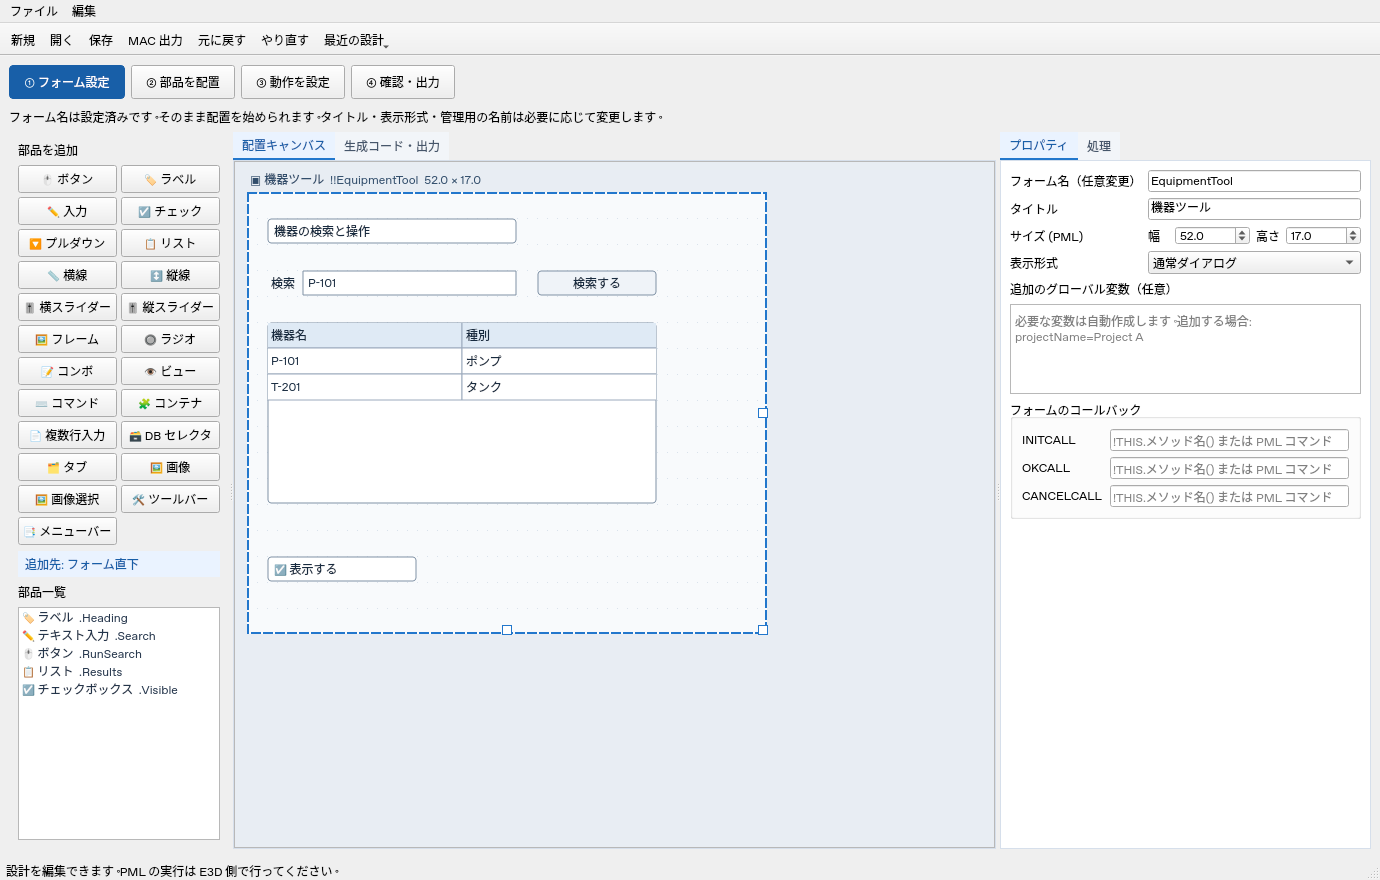
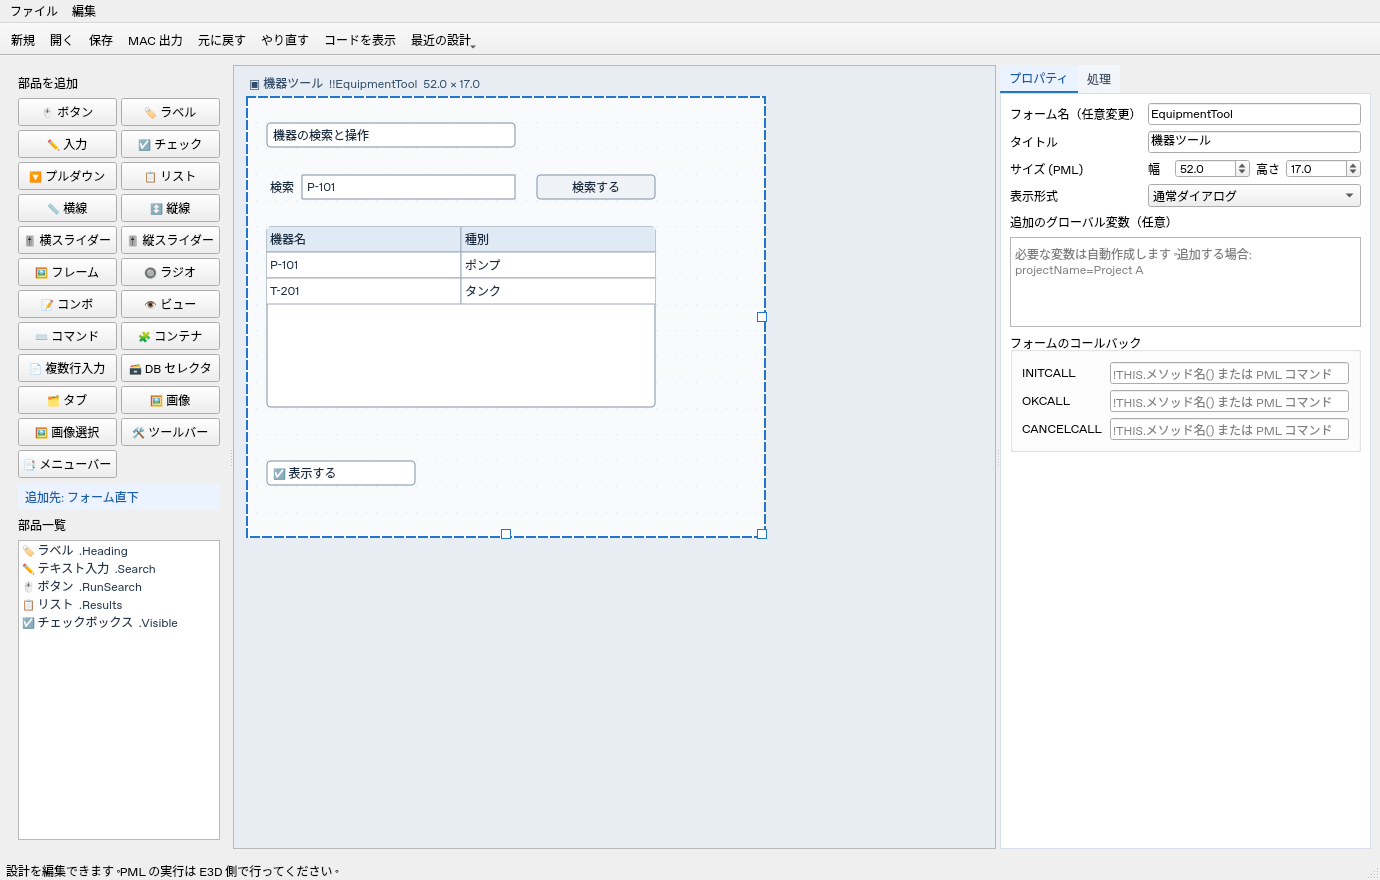
Keep canvas visible and show generated code in a separate window

diff --git a/e3d_designer/app.py b/e3d_designer/app.py
@@ -12,7 +12,7 @@ from PySide6.QtWidgets import (QApplication, QMainWindow, QWidget, QVBoxLayout,
     QPlainTextEdit, QLabel, QSplitter, QGraphicsScene, QGraphicsView,
     QGraphicsObject, QGraphicsItem, QListWidget, QFileDialog, QMessageBox,
     QCheckBox, QMenuBar, QMenu, QGroupBox, QTableWidget, QHeaderView, QAbstractItemView,
-    QGridLayout, QTabBar, QDialog, QDialogButtonBox, QTabWidget, QInputDialog, QToolButton, QButtonGroup, QStackedWidget)
+    QGridLayout, QTabBar, QDialog, QDialogButtonBox, QTabWidget, QInputDialog, QToolButton, QStackedWidget)
 from .form_item import FormItem
 from .highlighting import PmlHighlighter,COLORS
 from .colors import preview_color,foreground_color
@@ -459,6 +459,8 @@ class Window(QMainWindow):
             a.triggered.connect(fn)
             (edit_menu if label in ('元に戻す','やり直す','複製','削除') else file_menu).addAction(a)
             if label not in ('名前を付けて保存','複製','削除'):toolbar.addAction(a)
+        self.code_action=QAction('コードを表示',self);self.code_action.setShortcut(QKeySequence('Ctrl+Shift+C'))
+        self.code_action.triggered.connect(self.show_code);toolbar.addAction(self.code_action);file_menu.addAction(self.code_action)
         names_action = QAction('変数・名前管理',self)
         names_action.setShortcut(QKeySequence('Ctrl+M'));names_action.triggered.connect(self.manage_names)
         edit_menu.addAction(names_action)
@@ -470,14 +472,6 @@ class Window(QMainWindow):
         recovery_action=file_menu.addAction('作業を復元');recovery_action.triggered.connect(self.recover_work)
         self.refresh_recent_menu()
         root = QWidget(); outer = QVBoxLayout(root)
-        workflow_row=QHBoxLayout();self.workflow_buttons={};self.workflow_group=QButtonGroup(self)
-        for step,label in (('form','① フォーム設定'),('layout','② 部品を配置'),('action','③ 動作を設定'),('output','④ 確認・出力')):
-            button=QPushButton(label);button.setCheckable(True)
-            button.setStyleSheet('QPushButton { padding: 7px 14px; } QPushButton:checked { background: #185fa8; color: white; border: 1px solid #185fa8; border-radius: 4px; }')
-            button.clicked.connect(lambda checked=False,s=step:self.set_workflow(s))
-            self.workflow_group.addButton(button);self.workflow_buttons[step]=button;workflow_row.addWidget(button)
-        workflow_row.addStretch();outer.addLayout(workflow_row)
-        self.workflow_hint=QLabel();outer.addWidget(self.workflow_hint)
         columns = QSplitter();self.columns=columns
         left = QWidget();self.library_panel=left;ll = QVBoxLayout(left)
         ll.addWidget(QLabel('部品を追加'))
@@ -518,7 +512,6 @@ class Window(QMainWindow):
         self.objects.itemDoubleClicked.connect(lambda item:self.request_object_label(self.form.gadgets[item.data(Qt.UserRole)].name))
         self.objects.setToolTip('ドラッグで部品の順序を変更します（親コンテナは変わりません）。')
         left.setMinimumWidth(220); columns.addWidget(left)
-        middle = QTabWidget();self.workspace_tabs=middle;middle.setStyleSheet(INSPECTOR_STYLE)
         self.scene = Scene(self); self.scene.selectionChanged.connect(self.selection_changed)
         self.view = QGraphicsView(self.scene)
         self.view.setContextMenuPolicy(Qt.CustomContextMenu)
@@ -549,7 +542,7 @@ class Window(QMainWindow):
         self.delete_page_button=QPushButton('− タブ');self.delete_page_button.clicked.connect(self.delete_page)
         tab_layout.addWidget(self.delete_page_button)
         preview_layout.addWidget(self.tab_editor);preview_layout.addWidget(self.view)
-        middle.addTab(preview,'配置キャンバス')
+        columns.addWidget(preview)
         self.code = QPlainTextEdit(); self.code.setReadOnly(True)
         self.code.setStyleSheet('font-family: monospace; font-size: 12px;')
         code_panel=QWidget();code_layout=QVBoxLayout(code_panel);code_layout.setContentsMargins(0,0,0,0);code_layout.setSpacing(3)
@@ -569,7 +562,10 @@ class Window(QMainWindow):
         legend=QLabel('  '.join(f'<span style="color:{COLORS[kind]}">{label}</span>' for kind,label in (('command','コマンド'),('object','オブジェクト'),('variable','変数'),('string','文字列'),('number','数値・論理値'),('method','メソッド'),('comment','コメント'))))
         legend.setWordWrap(True);code_layout.addWidget(legend);code_layout.addWidget(self.code)
         code_layout.addWidget(QLabel('出力形式: .mac / SJIS（CP932）/ CRLF  •  E3Dで読み込みと動作を確認してください。'))
-        middle.addTab(code_panel,'生成コード・出力');columns.addWidget(middle)
+        self.output_dialog=QDialog(self,Qt.Window);self.output_dialog.setWindowTitle('生成コード・MAC出力')
+        self.output_dialog.resize(1000,760)
+        output_layout=QVBoxLayout(self.output_dialog);output_layout.addWidget(code_panel)
+        close_code=QPushButton('閉じる');close_code.clicked.connect(self.output_dialog.close);output_layout.addWidget(close_code)
         right = QTabWidget();self.inspector_tabs=right
         right.setStyleSheet(INSPECTOR_STYLE)
         form_page=QWidget();rl=QVBoxLayout(form_page)
@@ -773,34 +769,24 @@ class Window(QMainWindow):
             highlighter=PmlHighlighter(editor.document());editor.pml_highlighter=highlighter
             self.pml_highlighters.append(highlighter)
         self.refresh()
-        self.workspace_tabs.currentChanged.connect(self.workspace_changed)
         self.set_workflow('form')
         if self.settings.error:self.statusBar().showMessage('設定JSONを読み込めません: '+self.settings.error)
         self.backup_timer.start()
 
+    def show_code(self):
+        self.sync_output_summary()
+        self.output_dialog.show();self.output_dialog.raise_();self.output_dialog.activateWindow()
+
     def set_workflow(self,step):
-        previous=self.current_workflow
-        if step=='output' and previous!='output':self.design_sizes=self.columns.sizes()
-        self.current_workflow=step;self.workflow_buttons[step].setChecked(True)
-        self.workspace_tabs.setCurrentIndex(1 if step=='output' else 0)
-        self.library_panel.setVisible(step!='output');self.inspector_tabs.setVisible(step!='output')
-        if previous=='output' and step!='output':self.columns.setSizes(getattr(self,'design_sizes',[220,780,380]))
+        # Internal focus routing; the canvas and its panels always remain visible.
+        if step=='output':self.show_code();return
+        self.current_workflow=step
         if step=='form':
             self.choose_row(-1);self.inspector_tabs.setCurrentIndex(0)
         elif step=='layout':self.inspector_tabs.setCurrentIndex(0)
         elif step=='action':
             self.inspector_tabs.setCurrentIndex(0)
             if self.props.isTabEnabled(3):self.props.setCurrentIndex(3)
-        hints={'form':'フォーム名は設定済みです。そのまま配置を始められます。タイトル・表示形式・管理用の名前は必要に応じて変更します。',
-               'layout':'追加先を確認 → 部品を追加 → ドラッグとハンドルで配置。ダブルクリックで設定を編集できます。',
-               'action':'処理名は自動設定します。部品の動作を設定し、「処理コードを編集」から処理内容を追加します。',
-               'output':'設計JSONを保存し、生成コードを確認してMACを出力します。プレビューは概略表示です。'}
-        self.workflow_hint.setText(hints[step])
-        if step=='action':self.sync_context_hints()
-
-    def workspace_changed(self,index):
-        if index==1 and self.current_workflow!='output':self.set_workflow('output')
-        elif index==0 and self.current_workflow=='output':self.set_workflow('layout')
 
     def show_method_editor(self):
         if self.selected is None:return
@@ -1441,19 +1427,13 @@ class Window(QMainWindow):
 
     def sync_context_hints(self):
         g=self.form.gadgets[self.selected] if self.selected is not None and self.selected<len(self.form.gadgets) else None
-        if self.current_workflow=='action':
-            if g and g.action_mode=='MACRO':
-                self.workflow_hint.setText('外部マクロを選択します。分岐変数・値は自動設定し、必要なら「分岐マクロのひな形を保存」で処理を作成できます。')
-            elif not g:
-                self.workflow_hint.setText('部品を選ぶとその動作を設定できます。フォーム全体の追加処理は右側の「処理」で編集します。')
-            else:self.workflow_hint.setText('処理名は自動設定します。部品の動作を設定し、「処理コードを編集」から処理内容を追加します。')
         if g:
             parent=self.form.parent_gadget(g)
             location=f'{parent.label} (.{parent.name})' if parent else 'フォーム直下'
             self.selection_hint.setText(f'{gadget_title(g)}  .{g.name}\n所属: {location}')
             self.method_target.setText(f'対象: {g.label} (.{g.name})\n処理名: {g.callback or "メソッドなし"}')
         else:
-            self.selection_hint.setText('部品を選択してください。\nダブルクリックで表示名を変更できます。')
+            self.selection_hint.setText('部品を選択してください。\nダブルクリックで設定を編集できます。')
             self.method_target.setText('キャンバスまたは部品一覧で、処理を編集する部品を選択してください。')
         target=g if g and g.kind=='frame' else self.form.parent_gadget(g) if g else self.form.named(self.tabset_picker.currentData()) if self.tabset_picker.currentData() else None
         if target and target.frame_style=='TABSET':
@@ -2074,7 +2054,6 @@ class Window(QMainWindow):
         if folder:self.output_folder.setText(folder);self.save_output_folder()
 
     def export(self):
-        self.set_workflow('output')
         try:
             if self.variable_error: raise ValueError('変数欄を修正してください。')
             data = self.form.pml().replace('\n', '\r\n').encode('cp932')
@@ -2096,7 +2075,7 @@ class Window(QMainWindow):
         if self.confirm_discard():
             self.clear_backup();self.backup_timer.stop()
             self._closing = True
-            self.menu_dialog.close()
+            self.menu_dialog.close();self.output_dialog.close()
             self.scene.blockSignals(True)
             event.accept()
         else: event.ignore()

diff --git a/tests/test_workflow_ui.py b/tests/test_workflow_ui.py
@@ -22,27 +22,33 @@ class WorkflowUiTests(unittest.TestCase):
     def tearDown(self):
         self.app.clipboard().clear();self.w.dirty=False;self.w.close();self.app.processEvents();self.temp.cleanup()
 
-    def test_view_switches_do_not_change_design_or_history(self):
-        w=self.w;original=w.form.dumps()
-        self.assertEqual(w.current_workflow,'form');self.assertEqual(w.inspector_tabs.currentIndex(),0)
-        for stage in ('layout','action','output','form'):
-            w.workflow_buttons[stage].click();self.app.processEvents()
-            self.assertEqual(w.current_workflow,stage)
-            self.assertEqual(w.workspace_tabs.currentIndex(),1 if stage=='output' else 0)
-            self.assertEqual(w.library_panel.isVisible(),stage!='output')
-            self.assertEqual(w.inspector_tabs.isVisible(),stage!='output')
-            self.assertTrue(w.workflow_buttons[stage].isChecked())
+    def test_separate_code_window_preserves_canvas_panels_and_design(self):
+        w=self.w;original=w.form.dumps();rect=w.view.geometry();sizes=w.columns.sizes()
+        self.assertFalse(hasattr(w,'workflow_buttons'));self.assertFalse(hasattr(w,'workspace_tabs'))
+        self.assertFalse(w.output_dialog.isVisible())
+        for _ in range(2):
+            w.code_action.trigger();self.app.processEvents()
+            self.assertTrue(w.output_dialog.isWindow());self.assertTrue(w.output_dialog.isVisible())
+            self.assertEqual(w.output_dialog.windowModality(),Qt.NonModal)
+            self.assertTrue(w.library_panel.isVisible());self.assertTrue(w.inspector_tabs.isVisible())
+            self.assertEqual(w.view.geometry(),rect);self.assertEqual(w.columns.sizes(),sizes)
+            self.assertIs(w.code.window(),w.output_dialog)
+            w.output_dialog.close();self.app.processEvents()
+            self.assertTrue(w.isVisible());self.assertEqual(w.view.geometry(),rect)
         self.assertEqual(w.form.dumps(),original);self.assertEqual(w.history,[]);self.assertFalse(w.dirty)
-        w.workspace_tabs.setCurrentIndex(1);self.assertEqual(w.current_workflow,'output')
-        w.workspace_tabs.setCurrentIndex(0);self.assertEqual(w.current_workflow,'layout')
         self.assertGreater(w.view.viewport().height(),500)
         self.assertTrue(all(button.isVisible() for button in w.palette_buttons.values()))
+
+    def test_code_window_updates_while_editing_and_closes_with_main(self):
+        w=self.w;w.show_code();w.add('button');w.fields['label'].setText('UpdatedLabel');w.update_gadget()
+        self.assertIn("'UpdatedLabel'",w.code.toPlainText());self.assertTrue(w.output_dialog.isVisible())
+        w.dirty=False;w.close();self.assertFalse(w.output_dialog.isVisible())
 
     def test_actual_form_tab_parts_action_save_export_workflow(self):
         w=self.w
         w.fname.selectAll();QTest.keyClicks(w.fname,'DEMO')
         w.ftitle.selectAll();QTest.keyClicks(w.ftitle,'Equipment')
-        w.workflow_buttons['layout'].click()
+        w.set_workflow('layout')
         QTest.mouseClick(w.palette_buttons['tabset'],Qt.LeftButton)
         tabs=next(g for g in w.form.gadgets if g.frame_style=='TABSET')
         self.assertEqual(len(tabs.tabs),2)
@@ -52,12 +58,12 @@ class WorkflowUiTests(unittest.TestCase):
         w.fields['initial'].setFocus();QTest.keyClicks(w.fields['initial'],'P-101')
         QTest.mouseClick(w.palette_buttons['button'],Qt.LeftButton)
         button=w.form.gadgets[w.selected]
-        w.workflow_buttons['action'].click();self.assertEqual(w.props.currentIndex(),3)
+        w.set_workflow('action');self.assertEqual(w.props.currentIndex(),3)
         w.fields['callback'].setFocus();w.fields['callback'].selectAll();QTest.keyClicks(w.fields['callback'],'RUN')
         self.assertTrue(w.edit_method_button.isVisible());w.edit_method_button.click()
         self.assertEqual(w.inspector_tabs.currentIndex(),1)
         w.body.setPlainText('$p |Run|')
-        w.workflow_buttons['output'].click()
+        w.show_code()
         self.assertIn('問題なし',w.output_validation.text())
         self.assertIn('未保存の変更',w.output_summary.text())
         target=self.folder/'demo.json'
@@ -69,7 +75,7 @@ class WorkflowUiTests(unittest.TestCase):
         output=self.folder/'demo.mac';w.output_folder.setText(str(self.folder))
         with patch('e3d_designer.app.QFileDialog.getSaveFileName',return_value=(str(output),'')):w.export()
         self.assertEqual(output.read_bytes(),restored.pml().replace('\n','\r\n').encode('cp932'))
-        w.workflow_buttons['layout'].click();self.assertTrue(w.inspector_tabs.isVisible())
+        w.set_workflow('layout');self.assertTrue(w.inspector_tabs.isVisible())
 
     def test_tab_palette_is_one_undo_and_each_page_has_own_parts(self):
         w=self.w;before=w.form.dumps();w.palette_buttons['tabset'].click()
@@ -93,7 +99,7 @@ class WorkflowUiTests(unittest.TestCase):
     def test_action_selection_routes_to_part_actions_without_data_changes(self):
         w=self.w;w.form=Form(gadgets=[Gadget(name='run',callback='run'),Gadget(name='stop',x=30,callback='stop')])
         w.selected=0;w.refresh();before=w.form.dumps()
-        w.workflow_buttons['action'].click();w.choose_row(1)
+        w.set_workflow('action');w.choose_row(1)
         self.assertEqual(w.current_workflow,'action');self.assertEqual(w.props.currentIndex(),3)
         self.assertEqual(w.fields['callback'].text(),'stop')
         self.assertEqual(w.form.dumps(),before);self.assertFalse(w.dirty)

diff --git a/README.md b/README.md
@@ -25,15 +25,15 @@ Windowsで `onedir` 形式のEXEを作成するコマンドは、同梱の [EXE_
 
 ## 作業の流れ
 
-上部の「① フォーム設定 → ② 部品を配置 → ③ 動作を設定 → ④ 確認・出力」で、必要な画面へ直接移動できます。順番を強制せず、いつでも戻れます。配置中は中央のキャンバスを広く使い、生成コードと出力先は「生成コード・出力」にまとめています。出力画面では左右の編集パネルを隠し、保存状態・チェック結果・JSON保存・MAC出力を表示します。
+キャンバスを常時表示し、部品の追加・選択・配置・プロパティ編集を同じ画面で行います。上部の作業順ボタンとキャンバス／コード切り替えタブはありません。「コードを表示」（Ctrl+Shift+C）で生成コード・保存状態・チェック結果・出力先を別ウィンドウに開きます。コードウィンドウを開いてもメイン画面の配置は変わらず、編集内容はコードに反映されます。
 
 新規フォームの名前・表示形式は設定済みです。部品を追加すると部品名と、操作可能な部品の処理メソッド名を重複しない名前で設定します。名前を編集せずに配置・保存・MAC出力ができます。名前欄は、管理しやすい名前へ変えたい場合だけ編集してください。リストの配列・設定メソッド、外部マクロの分岐変数・値も必要に応じて自動作成します。追加のグローバル変数は任意です。
 
 自動設定した処理メソッドの初期内容はコメントだけです。必要な業務処理は「処理コードを編集」から追加し、右側に表示する対象部品と処理名で確認します。CALLコマンドを入力した場合はメソッド指定を解除し、メソッド名を設定し直した場合はCALLコマンドを解除します。切り替えはUndoで戻せます。画像・外部マクロ・DLL等の使用時には、その実際のファイルや必要な動作の指定が必要です。
 
-ツールバーは新規・開く・保存・MAC出力・Undo/Redo・最近の設計に絞り、別名保存・作業の復元は「ファイル」、複製・削除・名前管理は「編集」メニューへまとめています。既存のショートカットは維持します。
+ツールバーには新規・開く・保存・MAC出力・Undo/Redo・コード表示・最近の設計を配置し、別名保存・作業の復元は「ファイル」、複製・削除・名前管理は「編集」メニューへまとめています。既存のショートカットは維持します。
 
-[フォーム設定の画面](docs/current-ui/workflow-form.png) / [配置の画面](docs/current-ui/workflow-layout.png) / [動作設定の画面](docs/current-ui/workflow-actions.png) / [出力の画面](docs/current-ui/workflow-output.png)
+[編集画面](docs/current-ui/form-canvas.png) / [別ウィンドウのコード表示](docs/current-ui/separate-code.png)
 
 ## 使い方
 
@@ -387,7 +387,7 @@ Show !!MyForm
 
 「MAC 出力」（Ctrl+E）は SJIS（CP932）・CRLF のテキストを `.mac` として保存します。拡張子を省略した場合や別の拡張子を指定した場合も `.mac` に統一します。
 
-「④ 確認・出力」または「生成コード・出力」に「出力先フォルダ」があります。初期値はアプリと同じフォルダ（exe版はexeのあるフォルダ、Python版は `run_designer.py` のあるフォルダ）です。フォルダ欄の入力を確定するか、📁ボタンで選ぶとアプリと同じフォルダの `settings.json` へUTF-8で保存し、次回起動時に読み込みます。空欄を確定すると初期フォルダへ戻ります。フォルダ設定は編集用の設計JSONとは別に管理し、部品のUndoには含めません。
+「コードを表示」で開く別ウィンドウに「出力先フォルダ」があります。初期値はアプリと同じフォルダ（exe版はexeのあるフォルダ、Python版は `run_designer.py` のあるフォルダ）です。フォルダ欄の入力を確定するか、📁ボタンで選ぶとアプリと同じフォルダの `settings.json` へUTF-8で保存し、次回起動時に読み込みます。空欄を確定すると初期フォルダへ戻ります。フォルダ設定は編集用の設計JSONとは別に管理し、部品のUndoには含めません。
 
 各部品のプロパティに「部品のコメント」欄があります。複数行を入力でき、コードではその部品の定義直前に各行を `--` コメントとして付けます。コメントは設計JSONへ保存され、部品の複製・Undoにも対応します。コメントの大文字小文字は維持します。
 

diff --git a/docs/audit-latest.md b/docs/audit-latest.md
@@ -1,3 +1,13 @@
+# コードの別ウィンドウ化（2026-10-05）
+
+- 上部の作業順ボタンとキャンバス／コードのタブを撤去。キャンバス・追加ボタン・プロパティを常時表示します。
+- ツールバー／ファイルメニューの「コードを表示」（Ctrl+Shift+C）で生成コード・入力チェック・保存状態・出力先・JSON保存・MAC出力をモデルレスの別ウィンドウに表示。
+- 開閉時にキャンバスの座標・幅・パネルの表示や設計履歴を変更しません。開いたまま編集するとコードが更新され、メイン終了時は一緒に閉じます。
+- UI関連15件のテストが成功。キャンバス位置・パネル幅の保持、モデルレス表示、コード更新、開閉時の履歴保持、メイン終了時の閉鎖を確認。
+- 画面例: [編集画面](current-ui/form-canvas.png)、[コードウィンドウ](current-ui/separate-code.png)。
+
+---
+
 # COMBOのTAGWID設定（2026-10-05）
 
 - COMBO／COMBOBOXにTAGWID（表示名の幅）を追加。表示名の直前に出力し、SCROLLはWIDTHの前を維持します。

diff --git a/docs/current-ui/README.md b/docs/current-ui/README.md
@@ -1,11 +1,11 @@
-# 作業手順に沿った最新UI
+# 最新UI
 
-現在の画面は「フォーム設定 → 配置 → 動作 → 確認・出力」の切り替えに対応しています。追加ボタンは全て常時表示し、配置キャンバスとコード出力を別画面にしています。
+上部の作業順ボタンとキャンバス／コード切り替えタブを撤去しました。部品ボタン・キャンバス・プロパティは常時表示し、コードは「コードを表示」で別ウィンドウに開きます。
 
-- [フォーム設定](workflow-form.png)
-- [タブと部品の配置](workflow-layout.png)
-- [動作設定](workflow-actions.png)
-- [生成コードと保存・出力](workflow-output.png)
+- [メイン編集画面](form-canvas.png)
+- [コードの別ウィンドウ](separate-code.png)
+
+過去のworkflow-*.pngは以前の画面の記録です。
 
 [初期値のプルダウンとテキスト入力の表示](initial-preview.png)では、TRUE/FALSEの選択欄と、枠外の表示名・枠内の値を確認できます。
 
